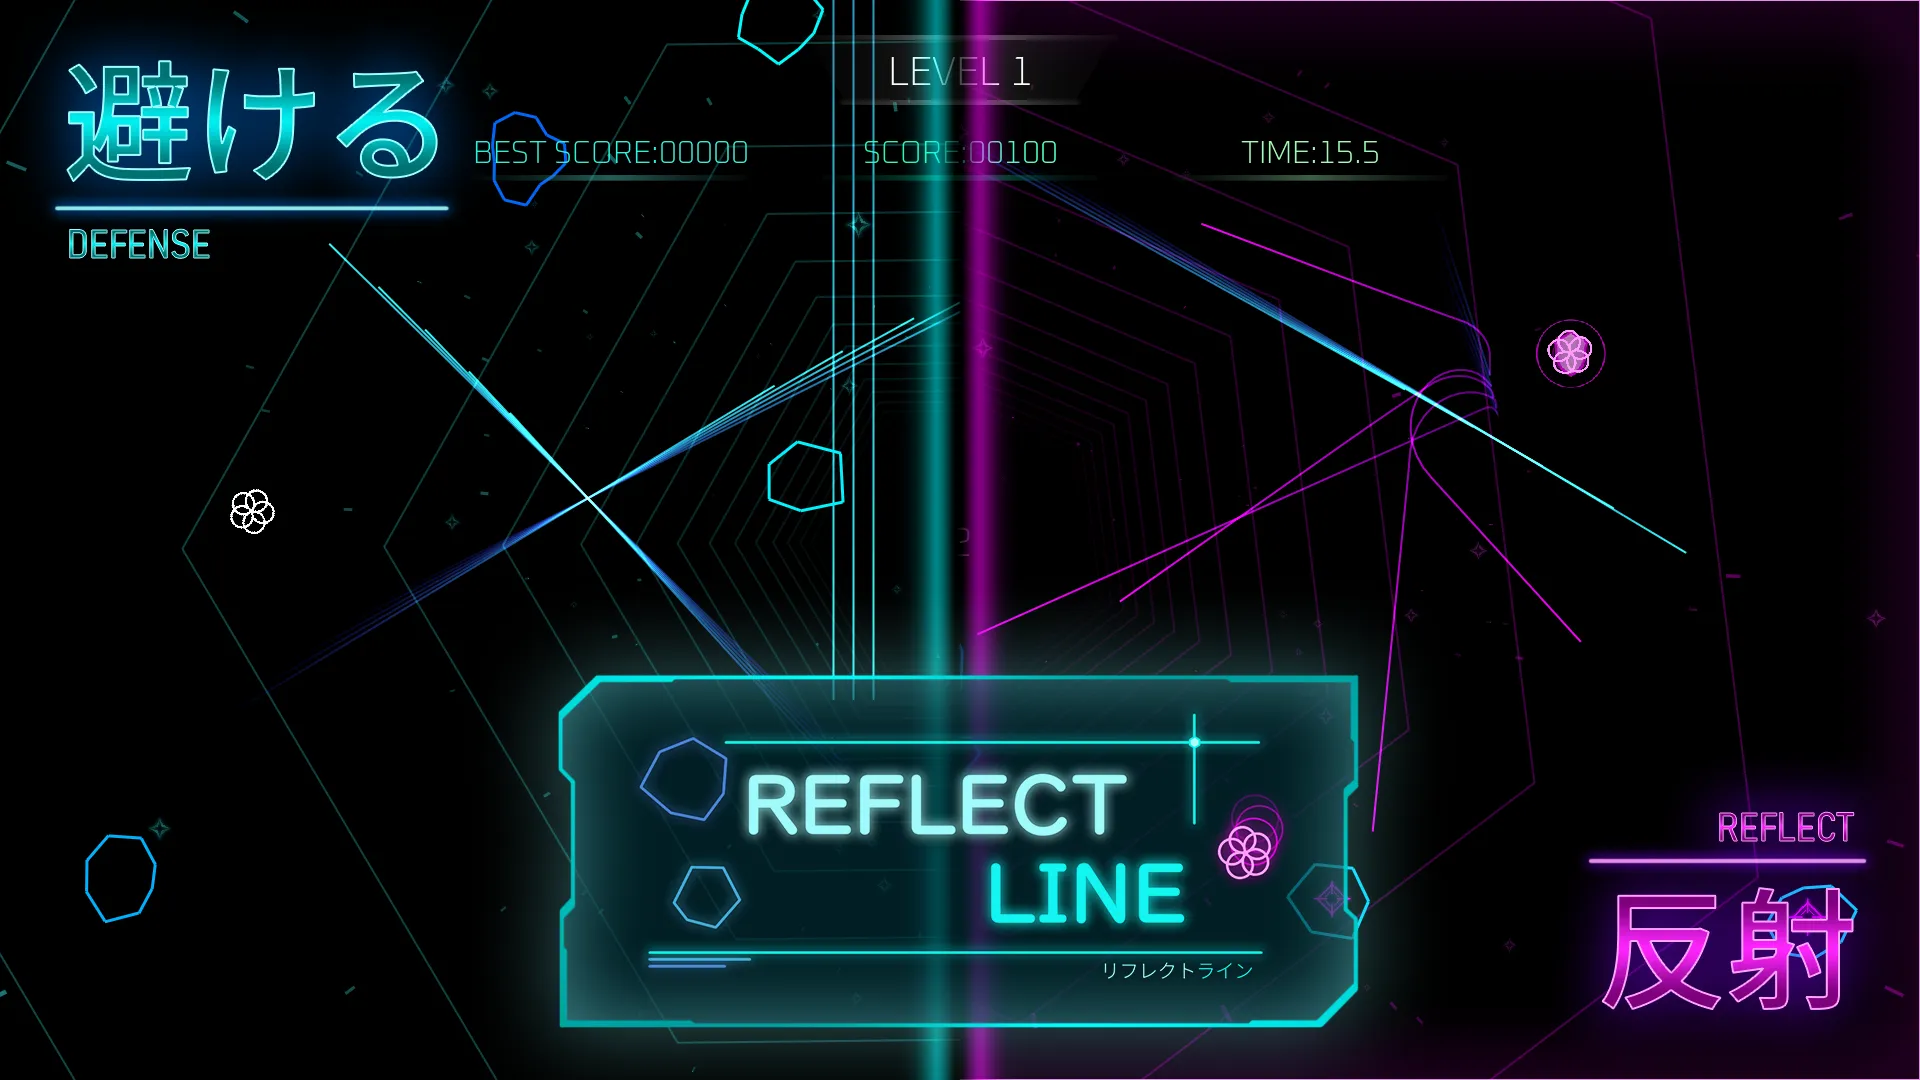
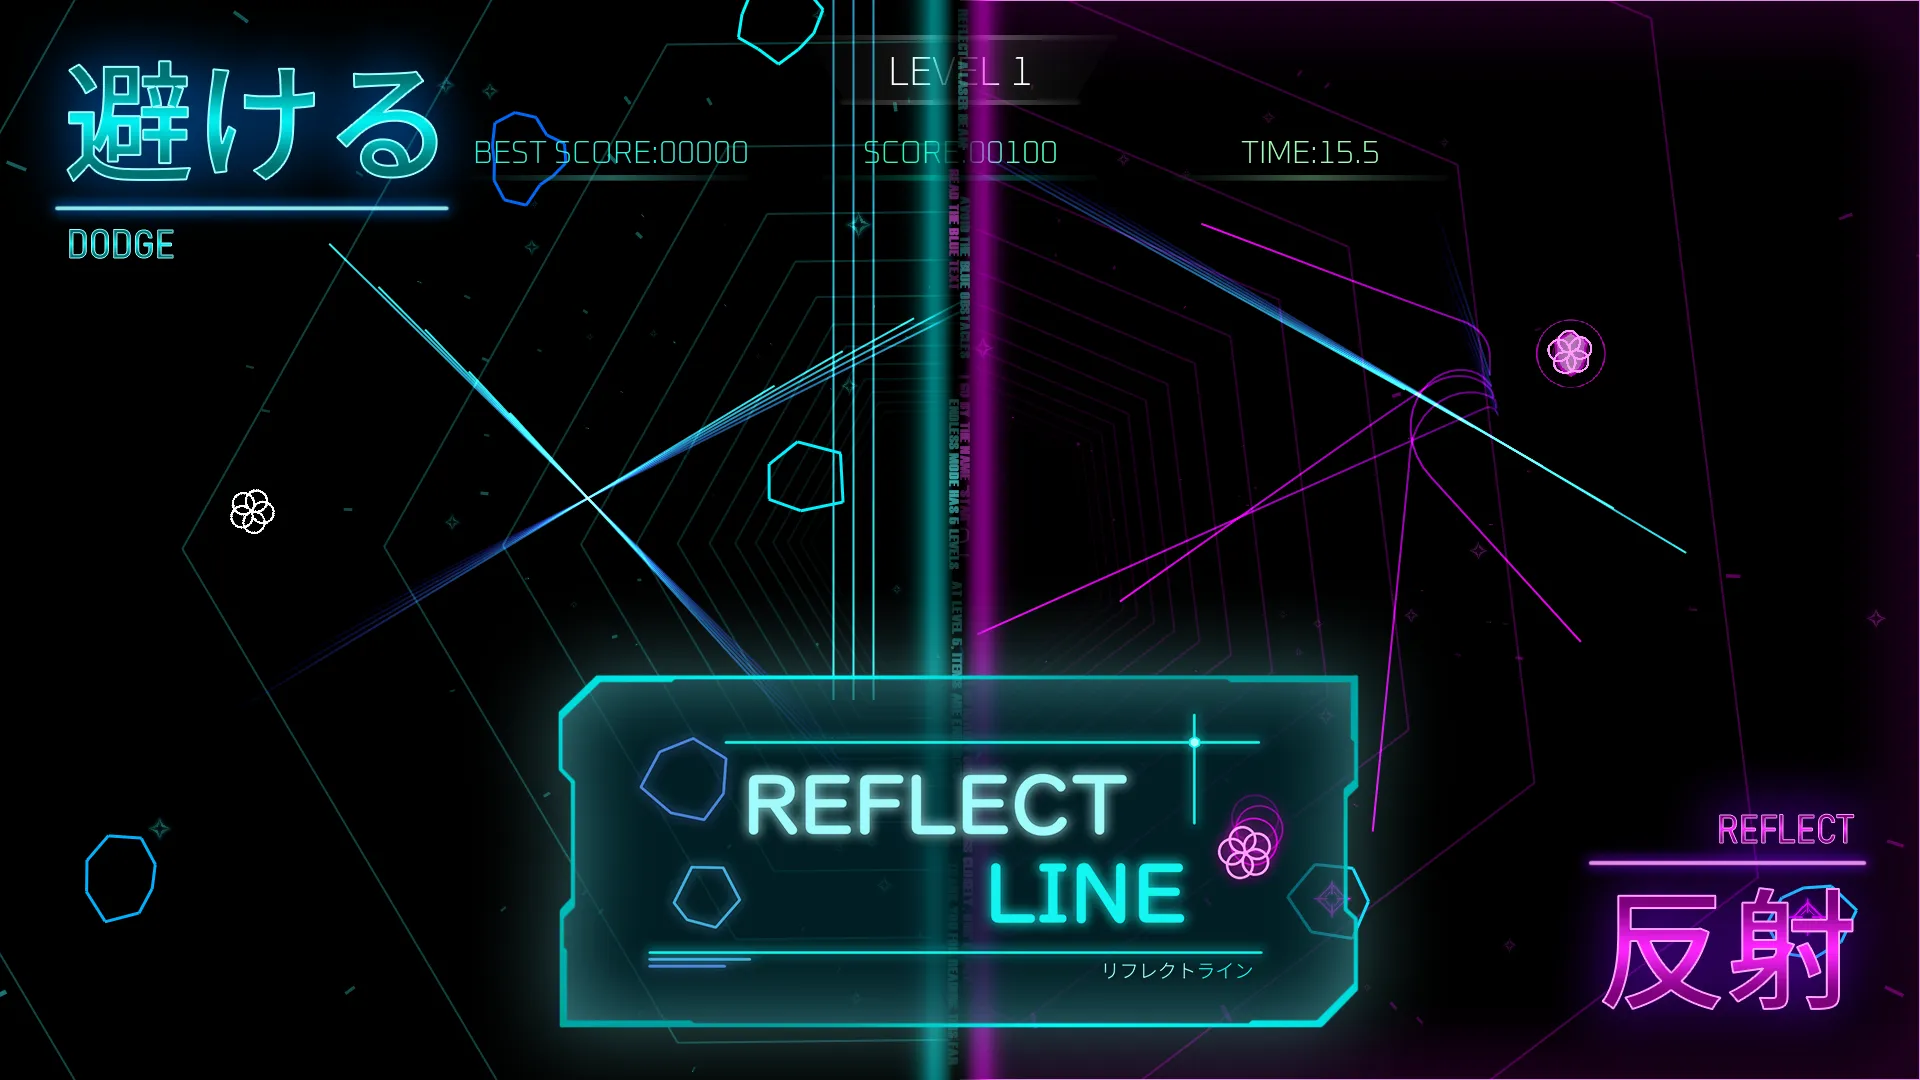
一部画像の更新など

diff --git a/pages/works/gun_action.html b/pages/works/gun_action.html
@@ -115,7 +115,7 @@
         <table class="info-table">
           <tr>
             <td>開発期間</td>
-            <td>2025/10 ~ 現在</td>
+            <td>2025/10 ~ 2026/05 (現在休止中)</td>
           </tr>
           <tr>
             <td>開発人数</td>
@@ -309,7 +309,7 @@
           これにより、現在は<span class="keyword">プロジェクトを終了してからブランチ操作を行う</span>というルールをチーム内で徹底しています。
         </p>
 
-        <div class="episode-img" style="--img-max-width: 600px;">
+        <div class="episode-img">
           <img src="../../resources/image/works/gun_action/episode/3_git_commit.webp" class="panel-img">
         </div>
       </div>
@@ -332,7 +332,7 @@
           <div class="flow-item">
             <div class="flow-index">1</div>
             <div class="flow-content">
-              アセットを<span class="keyword">「Assets」</span>フォルダにまとめ、<span class="keyword">「.gitignore」</span>で除外
+              アセットを<span class="keyword">「Assets」</span>フォルダにまとめ、<span class="keyword">.gitignore</span>で除外
             </div>
           </div>
           <!-- 2 -->
@@ -346,7 +346,7 @@
           <div class="flow-item">
             <div class="flow-index">3</div>
             <div class="flow-content">
-              受け取り側で<span class="keyword">「移行」</span>機能を使い、開発プロジェクトに導入
+              受け取り側で<span class="keyword">移行</span>機能を使い、開発プロジェクトに導入
             </div>
           </div>
         </div>
@@ -366,35 +366,35 @@
         </div>
 
         <p>
-          Unreal Engineでは、C++クラス名を安全にリネームするのは難しそうなので、以下の手順で対応しています。
+          Unreal EngineでC++クラスをリネームする方法が見つからなかったため、以下の手順でクラス名を変更しています。
         </p>
         <div class="flow">
           <!-- 1 -->
           <div class="flow-item">
             <div class="flow-index">1</div>
             <div class="flow-content">
-              新規C++クラスを作る
+              新しいC++クラスを作成する
             </div>
           </div>
           <!-- 2 -->
           <div class="flow-item">
             <div class="flow-index">2</div>
             <div class="flow-content">
-              新規C++クラスにコードを全て移植する
+              元のクラスから新しいクラスへコードを移植する
             </div>
           </div>
           <!-- 3 -->
           <div class="flow-item">
             <div class="flow-index">3</div>
             <div class="flow-content">
-              (継承してるBluePrintがあれば) BluePrintを開き、親クラスを1で作成した新規クラスに変更する
+              継承しているBluePrintがある場合は、BluePrintを開き、親クラスを手順1で作成したクラスに変更する
             </div>
           </div>
           <!-- 4 -->
           <div class="flow-item">
             <div class="flow-index">4</div>
             <div class="flow-content">
-              元のC++クラスを削除
+              元のC++クラスを削除する
             </div>
           </div>
         </div>
@@ -450,7 +450,7 @@
   <!-- フッター -->
   <footer>
     <small>
-      最終更新日: 2026/09/02<br>
+      最終更新日: 2026/09/10<br>
       随時更新中<br>
       <br>
       <!-- Unreal Engine表記 -->

diff --git a/index.html b/index.html
@@ -397,7 +397,7 @@
           <article class="card card-3star" id="works-card-02" data-tilt>
             <span class="badge">★★★</span>
             <div class="thumb"><img src="resources/image/works/gun_action/card_image.webp"></div>
-            <h3>Gun Action (制作中)</h3>
+            <h3>Gun Action (開発途中)</h3>
             <p>
               ゲームロジックは全てC++で実装。<br>
               3D作品制作と、技術習得を目的に開発しています。
